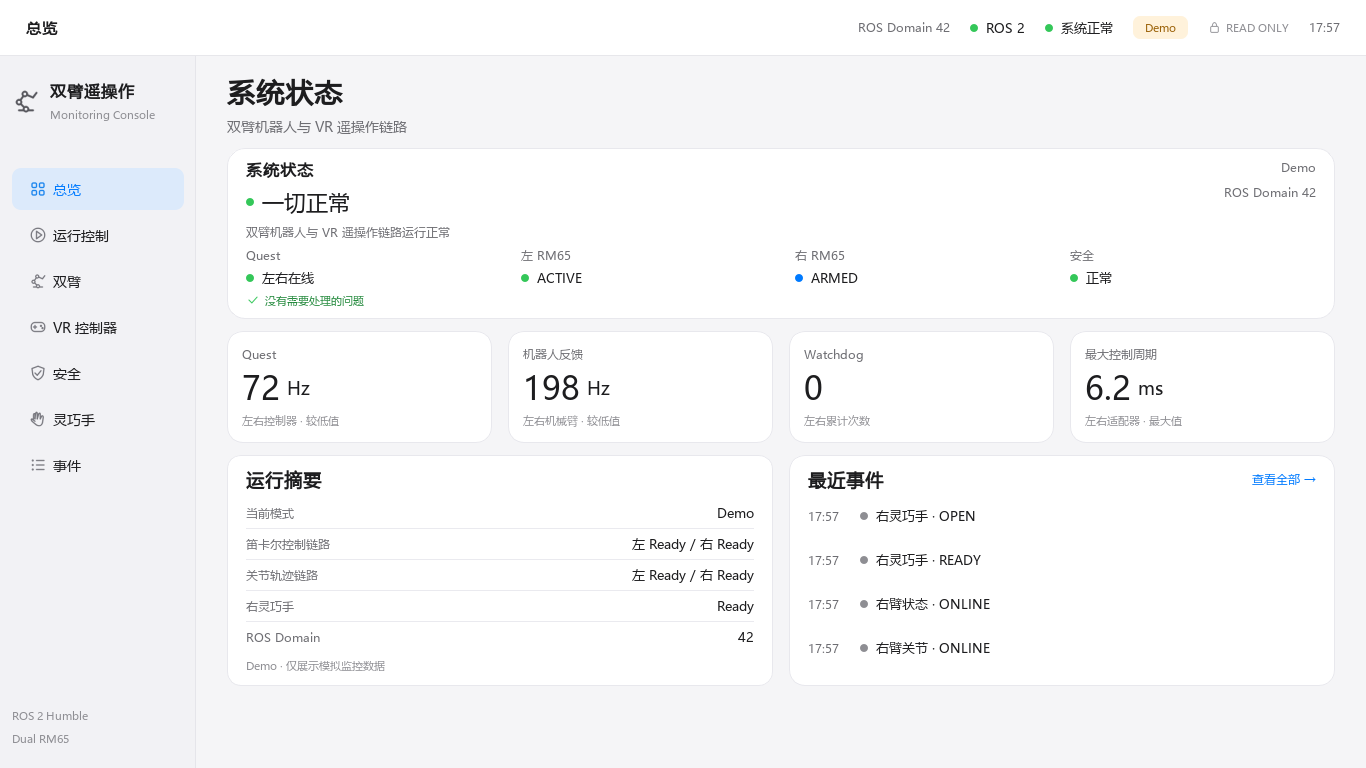
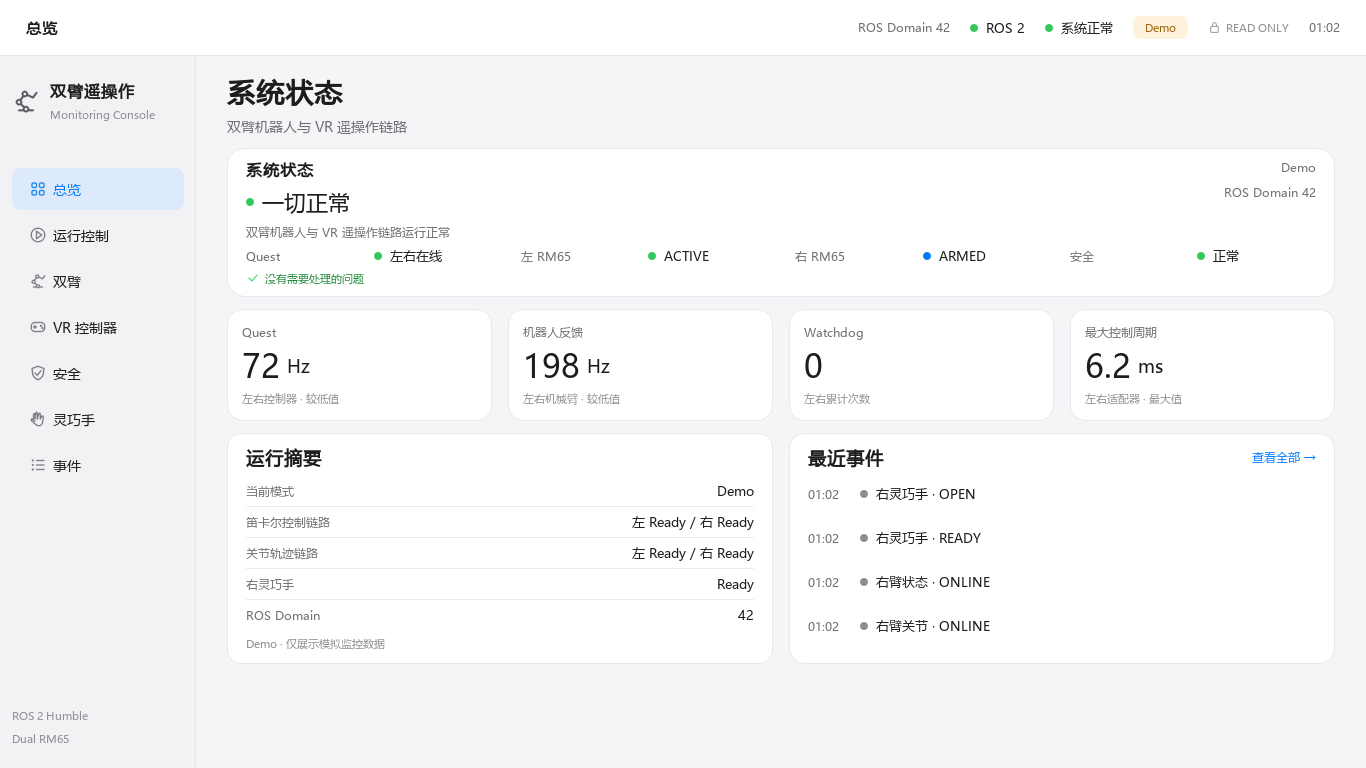
Fit compact overview with Ubuntu CJK font metrics

diff --git a/src/rm65_teleop_dashboard/rm65_teleop_dashboard/pages/overview_page.py b/src/rm65_teleop_dashboard/rm65_teleop_dashboard/pages/overview_page.py
@@ -1,7 +1,7 @@
 """Quiet system summary; formatting never changes telemetry semantics."""
 from datetime import datetime
 from PyQt5.QtCore import Qt, pyqtSignal
-from PyQt5.QtWidgets import QHBoxLayout, QVBoxLayout, QWidget
+from PyQt5.QtWidgets import QBoxLayout, QHBoxLayout, QVBoxLayout, QWidget
 from ..models import summarize_system, operating_mode
 from ..navigation import navigation_icon
 from ..styles import apply_tone
@@ -36,6 +36,7 @@ class OverviewPage(Page):
         line = QHBoxLayout()
         line.setSpacing(28)
         self.statuses = {}
+        self.status_layouts = []
         for key, title in (('quest', 'Quest'), ('left', '左 RM65'), ('right', '右 RM65'), ('safety', '安全')):
             group = QWidget()
             column = QVBoxLayout(group)
@@ -46,6 +47,7 @@ class OverviewPage(Page):
             column.addWidget(state, 0, Qt.AlignLeft)
             line.addWidget(group, 1)
             self.statuses[key] = state
+            self.status_layouts.append(column)
         self.primary.body.addLayout(line)
         self.alert = label('', 'caption')
         self.alert.setWordWrap(True)
@@ -109,7 +111,11 @@ class OverviewPage(Page):
         super().resizeEvent(event)
         self.body.setSpacing(12 if self.compact else 24)
         self.primary.body.setSpacing(6 if self.compact else 14)
-        self.primary.setMinimumHeight(168 if self.compact else 210)
+        self.primary.setMinimumHeight(148 if self.compact else 210)
+        # A single status row preserves readable Noto CJK line heights at 720p.
+        for column in self.status_layouts:
+            column.setDirection(QBoxLayout.LeftToRight if self.compact else QBoxLayout.TopToBottom)
+            column.setSpacing(8 if self.compact else 5)
         self.primary.body.setContentsMargins(18 if self.compact else 24, 10 if self.compact else 24,
                                             18 if self.compact else 24, 10 if self.compact else 24)
         self.details.set_row_height(30 if self.compact else 42)

diff --git a/docs/progress/teleop-dashboard-v4.md b/docs/progress/teleop-dashboard-v4.md
@@ -48,6 +48,8 @@ Round 2（七页 1920 + 总览/运行控制 1366，逐张复核）：
 - 首屏 Demo 状态明确为“不启动进程”。
 - 双臂链路 Ready 文案标注左/右，消除顺序歧义。
 - 独立审查将预检标题收窄为“ROS graph / 进程读取”，避免暗示它能证明没有重复节点。
+- Ubuntu 首轮 CI 暴露 Noto CJK 行高使 1280 总览溢出 18 px：小屏四项摘要改为
+  “名称＋状态”同行，保留字号与内边距；大屏布局不变，继续用原无滚动断言验证。
 - CTA 主次、timeline 连线、组件/预检对齐、中文、指标字号和各页样式检查通过；
   未发现重叠、横向裁切或缺字。1366 运行页使用清晰可见的纵向滚动。
 
